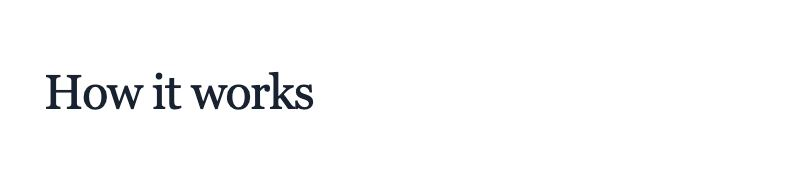
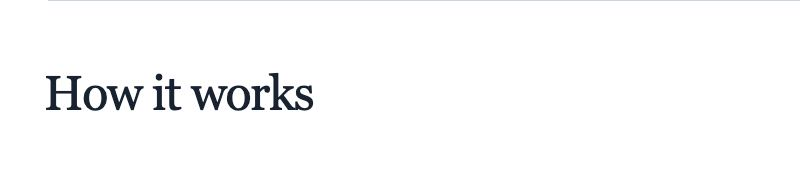
fix: complete text and layout block family acceptance

diff --git a/ConvexPress-Website/apps/web/block-demo/browser/text-family.pw.ts b/ConvexPress-Website/apps/web/block-demo/browser/text-family.pw.ts
@@ -1,0 +1,59 @@
+import { test, expect } from "@playwright/test";
+import { selectPackReady } from "./pack-ready";
+
+for (const width of [1440, 390]) test(`text family content boundaries and semantics · ${width}`, async ({ page }, info) => {
+  await page.setViewportSize({ width, height: 900 });
+  const errors: string[] = [];
+  page.on("pageerror", error => errors.push(error.message));
+  await page.goto("/", { waitUntil: "networkidle" });
+  const study = page.locator("[data-text-family]");
+  const canvas = study.locator("[data-text-family-canvas]");
+  for (const pack of ["core", "journal", "depot", "aster-house"]) {
+    await selectPackReady(page, pack);
+    await study.locator("summary").click();
+    const sizes: number[] = [];
+    for (const level of [1, 2, 3, 4, 5, 6]) {
+      await study.getByLabel("Heading level").selectOption(String(level));
+      await expect(canvas.getByRole("heading", { level, name: "A little space. A better story." })).toHaveAttribute("id", "family-heading-target");
+      sizes.push(await canvas.getByRole("heading").evaluate(el => parseFloat(getComputedStyle(el).fontSize)));
+    }
+    expect(sizes[0]).toBeGreaterThan(sizes[1]!);
+    expect(sizes[1]).toBeGreaterThan(sizes[2]!);
+    expect(sizes[2]).toBeGreaterThan(sizes[3]!);
+    const prose = canvas.locator('[data-block-id="family-paragraph"]');
+    for (const [tag, label] of [["strong", "bold"], ["em", "italic"], ["s", "strike"], ["u", "underline"], ["code", "code"]]) await expect(prose.locator(tag)).toHaveText(label);
+    await expect(prose.locator("br")).toHaveCount(1);
+    await expect(prose.locator("p")).toHaveCount(3);
+    const link = prose.getByRole("link", { name: "A considered link" });
+    await expect(link).toHaveAttribute("href", "https://example.com/story");
+    await expect(link).toHaveAttribute("rel", "noopener noreferrer");
+    await expect(link).toHaveAttribute("target", "_blank");
+    await study.getByLabel("Text family alignment").focus();
+    await page.keyboard.press("Tab");
+    await expect(link).toBeFocused();
+    for (const tone of ["default", "muted", "inverted", "accent"]) {
+      await study.getByLabel("Text family tone").selectOption(tone);
+      await expect(canvas.locator("[data-block-id]")).toHaveCount(4);
+      for (const block of await canvas.locator("[data-block-id]").all()) await expect(block).toHaveAttribute("data-tone", tone);
+    }
+    for (const align of ["center", "start"]) {
+      await study.getByLabel("Text family alignment").selectOption(align);
+      expect(await prose.evaluate(el => getComputedStyle(el).textAlign)).toBe(align === "start" ? "start" : "center");
+    }
+    await study.getByLabel("Content sample").selectOption("maximum");
+    await expect(canvas.getByRole("heading")).toHaveText("W".repeat(200));
+    await expect(prose.locator("p")).toHaveText("W".repeat(20000));
+    expect(await canvas.evaluate(el => el.scrollWidth <= el.clientWidth + 1)).toBe(true);
+    await study.getByLabel("Content sample").selectOption("empty");
+    await expect(canvas.getByRole("heading")).toHaveCount(0);
+    await expect(canvas.locator("#family-heading-target")).toHaveCount(1);
+    await expect(prose.locator("p")).toHaveCount(0);
+    await expect(canvas.getByRole("separator")).toHaveCount(1);
+    expect(await canvas.evaluate(el => el.getAnimations({ subtree: true }).length)).toBe(0);
+    await study.getByLabel("Content sample").selectOption("editorial");
+    await study.getByLabel("Heading level").selectOption("2");
+    await study.getByLabel("Text family tone").selectOption("default");
+    await canvas.screenshot({ path: info.outputPath(`${pack}-text-family-${width}.png`) });
+  }
+  expect(errors).toEqual([]);
+});

diff --git a/ConvexPress-Website/apps/web/block-demo/text-family.tsx b/ConvexPress-Website/apps/web/block-demo/text-family.tsx
@@ -1,0 +1,40 @@
+import { useState } from "react";
+import { prepareBlocks } from "../src/templates/sdk/block-renderer/model";
+import { stagedRenderers } from "../src/templates/sdk/block-renderer/discovery";
+
+const text = (value: string) => ({ type: "doc", content: [{ type: "paragraph", content: [{ type: "text", text: value }] }] });
+const marks = ["bold", "italic", "strike", "underline", "code"];
+export function TextFamilyStudy({ packId }: { packId: string }) {
+  const [level, setLevel] = useState(2);
+  const [sample, setSample] = useState("editorial");
+  const [tone, setTone] = useState("default");
+  const [align, setAlign] = useState("start");
+  const heading = sample === "empty" ? null : text(sample === "maximum" ? "W".repeat(200) : "A little space. A better story.");
+  const body = sample === "empty" ? { type: "doc", content: [] } : sample === "maximum" ? text("W".repeat(20000)) : {
+    type: "doc", content: [
+      { type: "paragraph", content: [
+        { type: "text", text: "Every detail has a purpose. " },
+        ...marks.flatMap(mark => [{ type: "text", text: mark, marks: [{ type: mark }] }, { type: "text", text: " · " }]),
+        { type: "text", text: "A considered link", marks: [{ type: "link", attrs: { href: "https://example.com/story", target: "_blank" } }] },
+        { type: "hardBreak" }, { type: "text", text: "And a fresh line, without a new paragraph." },
+      ] },
+      { type: "paragraph", content: [] },
+      { type: "paragraph", content: [{ type: "text", text: "Keep the words. Let the template set the mood." }] },
+    ],
+  };
+  const layout = { tone, align, spacing: "compact", width: "contained" };
+  const tree = [
+    { id: "family-heading", name: "core/heading", version: 2, attrs: { text: heading, level, anchor: "family-heading-target" }, layout },
+    { id: "family-paragraph", name: "core/paragraph", version: 2, attrs: { body }, layout },
+    { id: "family-divider", name: "core/divider", version: 2, attrs: {}, layout },
+    { id: "family-spacer", name: "core/spacer", version: 2, attrs: {}, layout },
+  ];
+  return <details className="canonical-study" data-text-family>
+    <summary>Text family: content and accessibility</summary>
+    <label>Heading level <select value={level} onChange={e => setLevel(Number(e.target.value))}>{[1, 2, 3, 4, 5, 6].map(n => <option key={n}>{n}</option>)}</select></label>
+    <label>Content sample <select value={sample} onChange={e => setSample(e.target.value)}>{["editorial", "empty", "maximum"].map(v => <option key={v}>{v}</option>)}</select></label>
+    <label>Text family tone <select value={tone} onChange={e => setTone(e.target.value)}>{["default", "muted", "inverted", "accent"].map(v => <option key={v}>{v}</option>)}</select></label>
+    <label>Text family alignment <select value={align} onChange={e => setAlign(e.target.value)}>{["start", "center"].map(v => <option key={v}>{v}</option>)}</select></label>
+    <div data-text-family-canvas>{prepareBlocks(tree, stagedRenderers, { enabledPlugins: [], capabilities: [], disabledBlocks: [] }, { media: {} }, undefined, packId)}</div>
+  </details>;
+}

diff --git a/ConvexPress-Website/apps/web/src/templates/sdk/block-renderer/model.cases.tsx b/ConvexPress-Website/apps/web/src/templates/sdk/block-renderer/model.cases.tsx
@@ -25,13 +25,26 @@ const policy: RenderPolicy = {
 	capabilities: ["tree.children"],
 	disabledBlocks: [],
 };
+test("authored heading levels use the template typography hierarchy", () => {
+  for (const [level, size] of [[1, "display"], [2, "lg"], [3, "md"], [4, "sm"], [5, "sm"], [6, "sm"]] as const) {
+    const html = renderToStaticMarkup(prepareBlocks([{ ...instance, attrs: { ...instance.attrs, level } }], registry, policy));
+    expect(html).toContain(`data-size="${size}"`);
+  }
+});
+test("empty headings keep an explicit link target without announcing an empty heading", () => {
+  for (const text of [null, { type: "doc", content: [] }, { type: "doc", content: [{ type: "paragraph", content: [{ type: "text", text: "  " }, { type: "hardBreak" }] }] }]) {
+    const html = renderToStaticMarkup(prepareBlocks([{ ...instance, attrs: { text, level: 3, anchor: "reserved-section" } }], registry, policy));
+    expect(/<h[1-6]\b/.test(html)).toBe(false);
+    expect(html).toContain('id="reserved-section"');
+  }
+});
 test("server-selected audience blocks render after authoring policy metadata is removed", () => {
   for (const visibility of ["everyone", "signedIn", "signedOut"] as const) {
     const authored = validateCanonicalTree([{ ...instance, visibility }]);
     expect(() => prepareBlocks(authored, registry, policy)).toThrow("instance-policy adapter");
     const display = publicCanonicalTree(authored);
     expect(renderToStaticMarkup(prepareBlocks(display, registry, policy))).toContain("A real heading");
-    expect(display[0]).not.toHaveProperty("visibility");
+    expect(Object.hasOwn(display[0]!, "visibility")).toBe(false);
     expect(authored[0]!.visibility).toBe(visibility);
   }
 });

diff --git a/blocks/core/heading/render.tsx b/blocks/core/heading/render.tsx
@@ -5,8 +5,19 @@ import {
 import * as P from "../../../ConvexPress-Website/apps/web/src/templates/sdk/primitives";
 export default defineBlock("core/heading", ({ attrs, blockId }) => {
 	const derivedAnchor = useCanonicalHeadingAnchor(blockId);
+	const anchor = attrs.anchor || derivedAnchor;
+	const hasText = attrs.text?.content.some(paragraph =>
+		paragraph.content?.some(node => node.type === "text" && node.text.trim().length > 0),
+	);
+	// Preserve explicit link destinations without adding unnamed headings to
+	// assistive-technology navigation when an author clears the text.
+	if (!hasText) return anchor ? <span id={anchor} aria-hidden="true" /> : null;
 	return (
-		<P.Heading level={attrs.level} anchor={attrs.anchor || derivedAnchor}>
+		<P.Heading
+			level={attrs.level}
+			size={attrs.level === 1 ? "display" : attrs.level === 2 ? "lg" : attrs.level === 3 ? "md" : "sm"}
+			anchor={anchor}
+		>
 			{attrs.text && <P.RichText content={attrs.text} inline />}
 		</P.Heading>
 	);

diff --git a/ConvexPress-Website/apps/web/block-demo/main.tsx b/ConvexPress-Website/apps/web/block-demo/main.tsx
@@ -18,6 +18,7 @@ import { FieldGuideTreatmentStudy } from "./field-guide-treatment";
 import { ArticleFlow } from "./article-flow";
 import { OriginalUtilitiesStudy } from "./original-utilities";
 import { CoreTextLayoutStudy } from "./core-text-layout";
+import { TextFamilyStudy } from "./text-family";
 const CanonicalBlocks = lazy(() =>
 	import("./canonical-blocks").then((module) => ({
 		default: module.CanonicalBlocks,
@@ -250,6 +251,7 @@ function App() {
 				>
 					<ArticleFlow />
 					<CoreTextLayoutStudy />
+					<TextFamilyStudy packId={packId} />
 					<OriginalUtilitiesStudy packId={packId} />
 					<FieldGuideTreatmentStudy packId={packId} />
 				</PrimitiveProvider>

diff --git a/ConvexPress-Admin/audits/2026-09-04/core-family-20260921.md b/ConvexPress-Admin/audits/2026-09-04/core-family-20260921.md
@@ -1,0 +1,47 @@
+# Text and layout family acceptance — September 21
+
+Heading, Paragraph, Spacer and Divider meet their current canonical block acceptance requirements. This closes four individual block rows, not the other 133 blocks, whole-template acceptance, installed-fleet legacy retirement or production release. The original audit remains eight accepted and sixteen open.
+
+## Product changes
+
+Clearing Heading previously produced an unnamed heading in assistive-technology navigation. Null, empty and whitespace-only text now omit the heading while preserving its explicit link anchor. Authored layout remains intact. A failing-before regression covers all three empty forms.
+
+Native public review also exposed identical sizes for H1–H6. Heading now selects the existing template typography tokens: H1 display, H2 large, H3 medium, H4–H6 small. Semantic levels remain distinct. Packs retain ownership of fonts, colors and size values; other blocks' Heading primitive calls are unchanged. A failing-before renderer regression and four-pack computed-style checks verify the hierarchy. Stored v2 attributes, schema and original revision recovery are unchanged.
+
+BlockDemo has a dedicated text-family study for heading levels, editorial/empty/maximum content, inline marks, tone and alignment. It remains an internal build outside storefront routes.
+
+## Requirement-to-evidence closure
+
+| Block / concern | Evidence |
+|---|---|
+| Heading content | Current native fixture saved/reopened all six levels and explicit null. Public H1–H6/anchor/null checks at1440/390. Four-pack study covers all levels and 200-character maximum. Shared rich-text mark controls are exercised by Paragraph below. |
+| Paragraph content | Current native fixture saves/reopens bold, italic, strike, underline, code, safe new-tab link, hard break and empty paragraph together. Public semantic tags/link attributes verified. Invalid empty link pauses preview/disables save; correction recovers. Four-pack study covers separate marks, keyboard link, empty content and20,000-character body. [Earlier native long/rich-text migration and recovery](paragraph-migration-20260921.md) preserves original structure and3857 edited characters. |
+| Layout and anchors | [Native layout acceptance](core-text-layout-20260921.md) covers insertion, save/reopen, width/tone/spacing/alignment, instance/heading anchors, reset/Undo/Redo and invalid anchor retention. Generated tests cover finite choices and unsupported/duplicate values. Current four-pack desktop/mobile checks pass. |
+| Spacer and Divider | [Utility acceptance](utility-migration-20260921.md) covers all four original sizes/three variants, real legacy CSS parity, native treatment editing/save/reopen, public rendering under all four packs and exact original recovery. Zero-spacing Spacer has no empty landmark or hidden extra height; Divider remains semantic. |
+| Shared editing protections | [Block locks](block-locks-20260921.md) prove saved unlock requirements and backend/native recovery guards. [Audience visibility](block-visibility-20260921.md) proves server filtering with a real Subscriber versus anonymous visitors and authorized editor previews. These shared policies apply to this family's generated contracts; no block-specific data resolver or plugin is required. |
+| Design and motion | Current Core/Journal/Depot/Aster House study screenshots at1440/390; earlier native template switching preserves authored trees. Typography, marks, links/focus, divider and spacing inspected. Current public final mobile and Journal desktop images inspected. These static blocks add no animation or raster gradient; no hardware animation claim is made. |
+
+Coverage combines native content/control workflows, all finite generated choices, renderer boundaries and pack visuals. It does not pretend to test every Cartesian combination of layout, content and authority. Broader structured-article conversion, mixed-document capacity and retirement of legacy editors remain separate Phase2 requirements.
+
+## Current verification
+
+- 295 renderer tests/5135 assertions pass; both new regressions fail against the pre-fix code.
+- Four browser cases pass across all four packs at1440/390, including existing text/layout and new content/semantics studies. No captured public page errors or horizontal overflow.
+- Website and BlockDemo type checks/builds pass. Canonical checks, generated-source freshness, distributed kit parity,548-thumbnail integrity, focused lint and whitespace pass. Existing build chunk-size warnings remain.
+- Heading thumbnail metadata refreshed in all four packs; Depot pixels unchanged. Other blocks' thumbnail receipts are preserved.
+
+## Native lifecycle and cleanup
+
+Owned Electron92686 used the current worktree desktop, renderer4105, separate profile and isolated Promotion Lab staging4860. A ten-block original fixture was reviewed/converted, edited, saved and reopened. All six heading levels, explicit null and six inline marks were read back from both native controls and the authorized backend. Native publication exposed the same tree through the production-built Website4322. Final built output has distinct display/large/medium/small heading sizes at both widths, with the empty anchor retained and no unnamed heading.
+
+Native withdrawal and original-editor recovery restored every original authored field. Only blocksRevision, updatedAt and retained publishedAt differ as expected. The fixture is trashed; all42 pre-existing pages and appearance identity/values match baseline. API logout returned200. Native keyboard sign-out was confirmed by the rendered operator sign-in screen and password field. Owned browser, Electron, Website, demo and tunnel processes are closed; the owned profile is removed. Original user processes remain running.
+
+### Separate desktop follow-up
+
+The account dropdown's pointer logout attempt detached its menu item while Playwright waited for stable geometry. Some initial selectors also confused the sidebar and header menus; the header item has the accessible label `Sign out of ConvexPress control plane`. A same-interaction pointer attempt still detached, so this is not dismissed as only a selector mistake. Keyboard Space → End → Enter focused that exact item and signed out. Investigate native pointer/menu stability separately; this receipt does not declare that issue fixed. No native page errors were captured.
+
+## Tracking and artifacts
+
+Standalone MagicTables: fresh master health/base/schema and137-row reads; Status has no configured choices, while the approved block handoff explicitly defines `Verified`. One-row dry-run/probe/readback precedes the remaining three rows. Only the four family rows receive Verified, current source locations/layout/field metadata and appended acceptance notes. Existing Tests/Screenshots remain true. Full137-row readback verifies every other cell unchanged.
+
+Artifacts: `output/core-family-20260921/` contains original/readback/recovery/cleanup receipts, native/public images, four-pack browser screenshots, failing/passing test logs, builds and tracker before/after records. No backend deployment, provider operation, DNS change or push was required for this renderer-only repair.

diff --git a/ConvexPress-Admin/audits/2026-09-04/implementation-ledger.md b/ConvexPress-Admin/audits/2026-09-04/implementation-ledger.md
@@ -1,5 +1,7 @@
 # ConvexPress production-readiness implementation ledger
 
+September21 text/layout family: **Heading, Paragraph, Spacer and Divider are accepted for their current canonical contracts (4/137 blocks;133 remain pending full signoff).** Native save/reopen/publication/original recovery, four-pack desktop/mobile rendering, finite layout/treatment controls and shared locks/audience evidence are reconciled. Fixed unnamed empty headings and missing visual level hierarchy. Original42 pages/appearance preserved and owned resources cleaned up. Original production audit remains8accepted/16open. Pointer instability in the native account menu is a separate open follow-up. [Family acceptance](core-family-20260921.md).
+
 September21 audience visibility: shared Everyone/Signed-in/Signed-out authoring and server filtering now pass scoped native, real Subscriber and anonymous acceptance. Fixed display metadata reaching the renderer; all3,301 backend tests/293 renderer cases pass. Original fixture content,42 existing pages and appearance restored; owned sessions/resources cleaned up. Full block/template/motion and release acceptance remain open; original audit eight accepted/sixteen open. [Evidence](block-visibility-20260921.md).
 
 September21 block protection: shared edit/move/remove safeguards, saved-unlock requirement and native sibling controls now pass scoped backend/native/public acceptance. Original-editor recovery gives actionable unlock guidance; original fixture content and all42 existing pages/appearance restored. An initial saved-draft conflict during consumer-index rebuilding remains a disclosed follow-up. Conditional visibility/full Library/release acceptance remains open; eight original audit rows accepted/sixteen open. [Evidence](block-locks-20260921.md).

diff --git a/ConvexPress-Admin/audits/2026-09-04/current-acceptance.md b/ConvexPress-Admin/audits/2026-09-04/current-acceptance.md
@@ -1,5 +1,7 @@
 # Current production acceptance index — September 21
 
+September21 text/layout family: **Heading, Paragraph, Spacer and Divider are accepted for their current canonical contracts (4/137 blocks;133 remain pending full signoff).** Native save/reopen/publication/original recovery, four-pack desktop/mobile rendering, finite layout/treatment controls and shared locks/audience evidence are reconciled. Fixed unnamed empty headings and missing visual level hierarchy. Original42 pages/appearance preserved and owned resources cleaned up. Original production audit remains8accepted/16open. Pointer instability in the native account menu is a separate open follow-up. [Family acceptance](core-family-20260921.md).
+
 September21 audience visibility: shared Everyone/Signed-in/Signed-out authoring and server filtering now pass scoped native, real Subscriber and anonymous acceptance. Fixed display metadata reaching the renderer; all3,301 backend tests/293 renderer cases pass. Original fixture content,42 existing pages and appearance restored; owned sessions/resources cleaned up. Full block/template/motion and release acceptance remain open; original audit eight accepted/sixteen open. [Evidence](block-visibility-20260921.md).
 
 September21 block protection: shared edit/move/remove safeguards, saved-unlock requirement and native sibling controls now pass scoped backend/native/public acceptance. Original-editor recovery gives actionable unlock guidance; original fixture content and all42 existing pages/appearance restored. An initial saved-draft conflict during consumer-index rebuilding remains a disclosed follow-up. Conditional visibility/full Library/release acceptance remains open; eight original audit rows accepted/sixteen open. [Evidence](block-locks-20260921.md).

diff --git a/specs/handoffs/HANDOFF-ASTRA-BLOCKS-2026-09-05.md b/specs/handoffs/HANDOFF-ASTRA-BLOCKS-2026-09-05.md
@@ -320,3 +320,6 @@ September21 Paragraph:2k→20k canonical text capacity is backward-compatible fo
 
 
 September21 native block layout: Heading/Paragraph/Divider/Spacer authored and saved in Electron, four-pack public desktop/mobile checks pass. Added declared width/tone/spacing/alignment and instance-anchor controls with draft/undo/CAS/validation guards. Fixed Spacer retaining64px for spacing=none and announcing an empty region.291 renderer and6 editor/adapter/composition checks pass; types/build/freshness pass. Original42pages and complete appearance values restored; owned fixtures/sessions/processes cleaned up. Evidence: ConvexPress-Admin/audits/2026-09-04/core-text-layout-20260921.md. Original audit8accepted/16open; full-block statuses remain open.
+
+
+September21 family closeout: core/heading, core/paragraph, core/spacer and core/divider now have current contract/editor/public/four-pack visual acceptance; MagicTables advances these four to Verified with exact evidence. Heading empty accessibility and size hierarchy are repaired. Remaining133 blocks, full templates, dynamic/provider/SDK/fleet/legacy-retirement and release requirements remain open. See `ConvexPress-Admin/audits/2026-09-04/core-family-20260921.md`.
